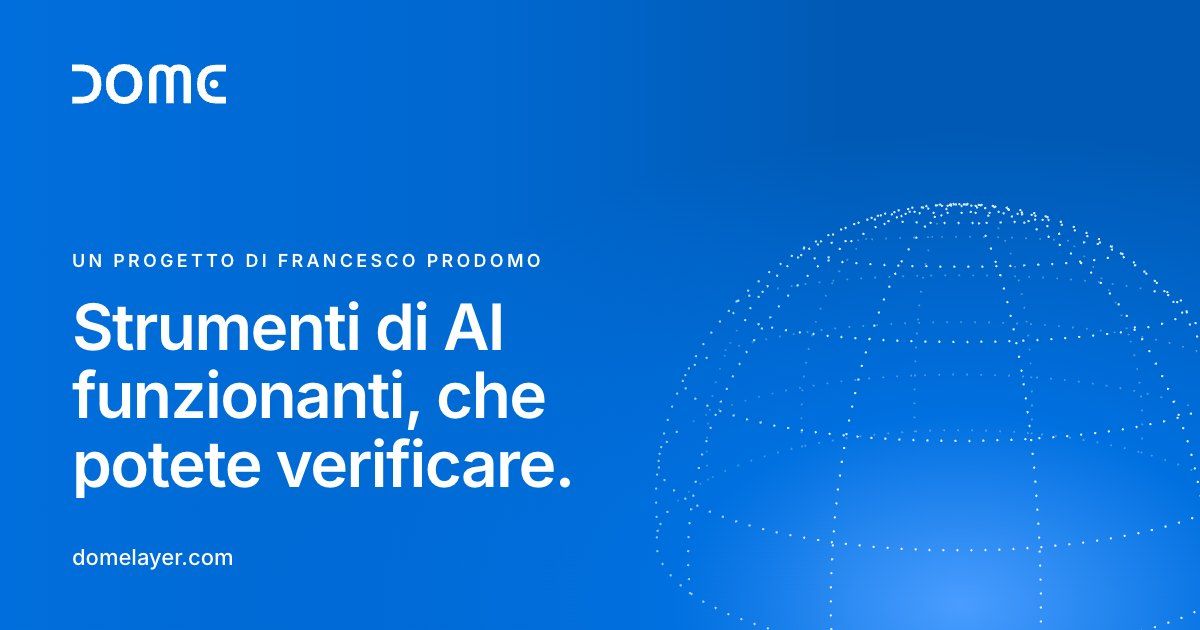
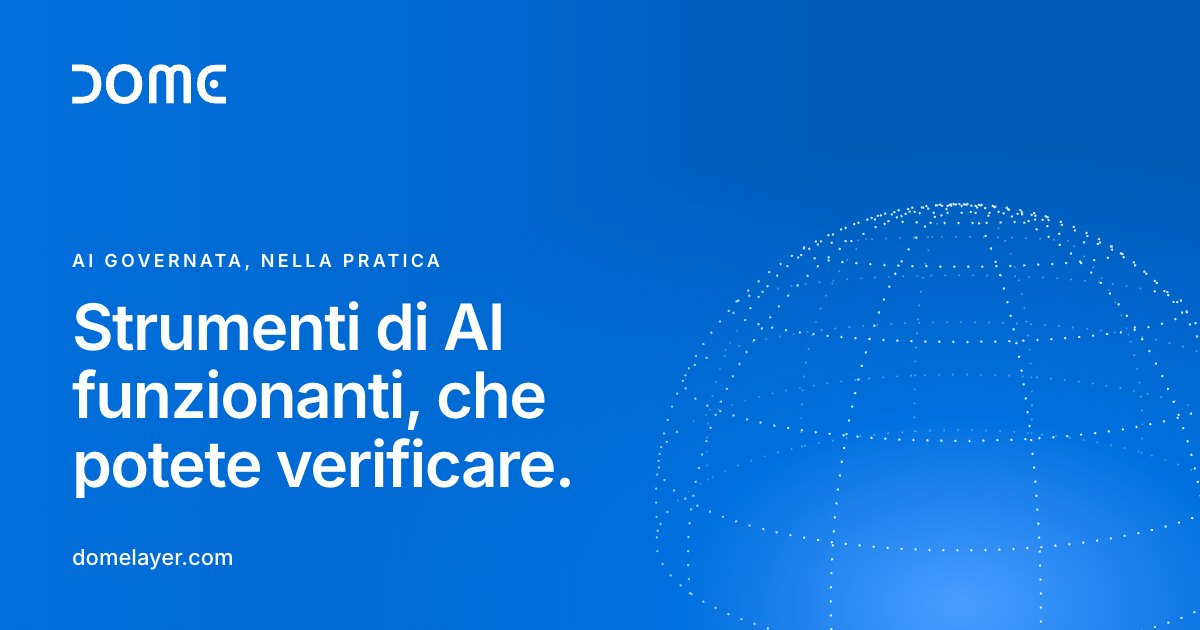
fix(home): eyebrow "Governed AI, in practice" in four languages
Francesco's pick (2026-11-03): the opening line says what the site proves,
not who made it. Home social cards regenerated.

Changed region(s): [[0.0617, 0.3921, 0.4625, 0.4222]]

diff --git a/src/i18n/messages/de.ts b/src/i18n/messages/de.ts
@@ -260,7 +260,7 @@ export const de: Messages = {
   pages: {
     home: {
       hero: {
-        eyebrow: 'Ein Projekt von Francesco Prodomo',
+        eyebrow: 'Kontrollierte KI in der Praxis',
         heading: 'Funktionierende KI-Tools, die Sie prüfen können.',
         lead: 'DOME zeigt mit funktionierenden Tools, wie KI in regulierten Prozessen laufen und dabei kontrolliert, messbar und erklärbar bleiben kann.',
         note: 'Kostenlos ausprobieren. Anmeldung per Magic Link, Google oder GitHub.',

diff --git a/src/i18n/messages/it.ts b/src/i18n/messages/it.ts
@@ -262,7 +262,7 @@ export const it: Messages = {
   pages: {
     home: {
       hero: {
-        eyebrow: 'Un progetto di Francesco Prodomo',
+        eyebrow: 'AI governata, nella pratica',
         heading: 'Strumenti di AI funzionanti, che potete verificare.',
         lead: 'DOME mostra, con strumenti che funzionano, come l’AI può lavorare dentro processi regolamentati restando governata, misurabile e spiegabile.',
         note: 'Provarli è gratis. Accedete con un magic link, Google o GitHub.',

diff --git a/src/i18n/messages/nl.ts b/src/i18n/messages/nl.ts
@@ -258,7 +258,7 @@ export const nl: Messages = {
   pages: {
     home: {
       hero: {
-        eyebrow: 'Een project van Francesco Prodomo',
+        eyebrow: 'AI met governance, in de praktijk',
         heading: 'Werkende AI-tools die u kunt controleren.',
         lead: 'DOME laat met werkende tools zien hoe AI binnen gereguleerde processen kan draaien en daarbij controleerbaar, meetbaar en uitlegbaar blijft.',
         note: 'Gratis te proberen. Log in met een magic link, Google of GitHub.',

diff --git a/src/i18n/messages/en.ts b/src/i18n/messages/en.ts
@@ -248,7 +248,7 @@ export const en: Messages = {
   pages: {
     home: {
       hero: {
-        eyebrow: 'A project by Francesco Prodomo',
+        eyebrow: 'Governed AI, in practice',
         heading: 'Working AI tools you can audit.',
         lead: 'DOME shows, with working tools, how AI can run inside regulated processes and stay governed, measurable and explainable.',
         note: 'Free to try. Sign in with a magic link, Google or GitHub.',
